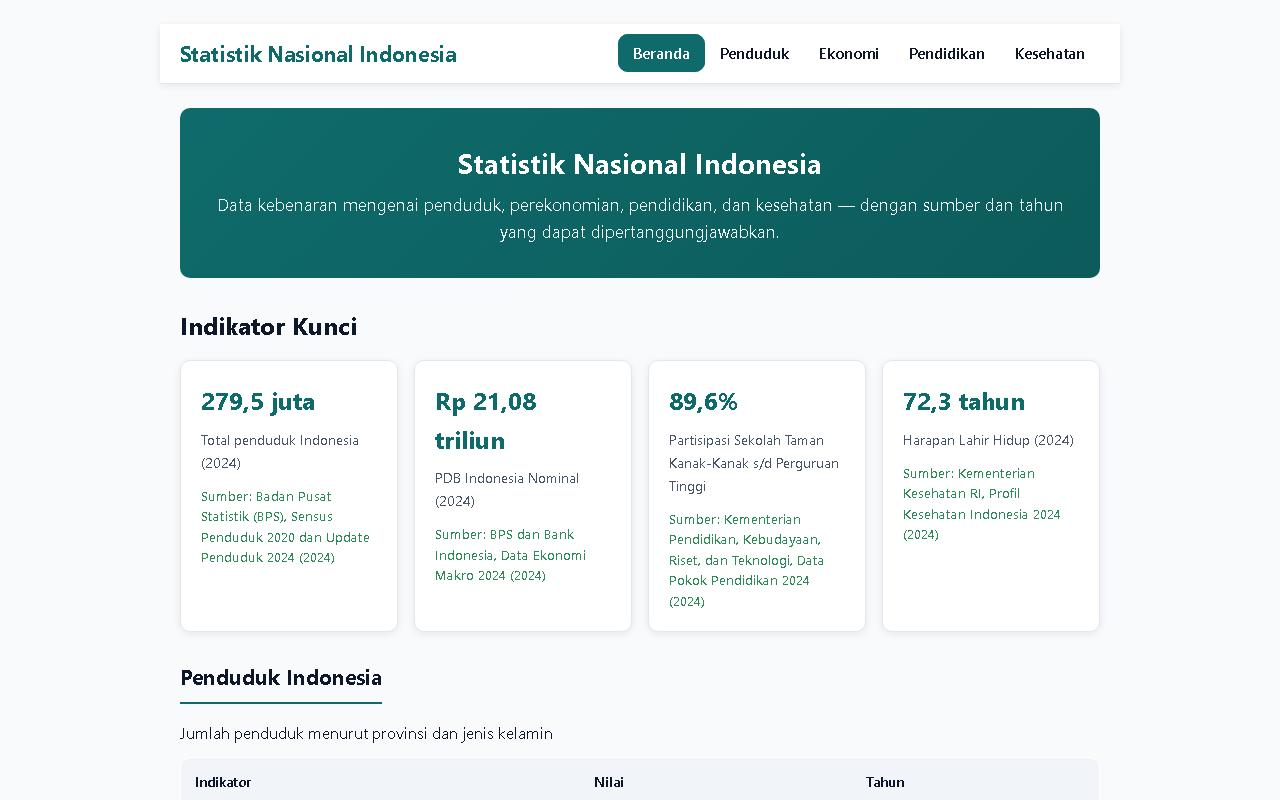
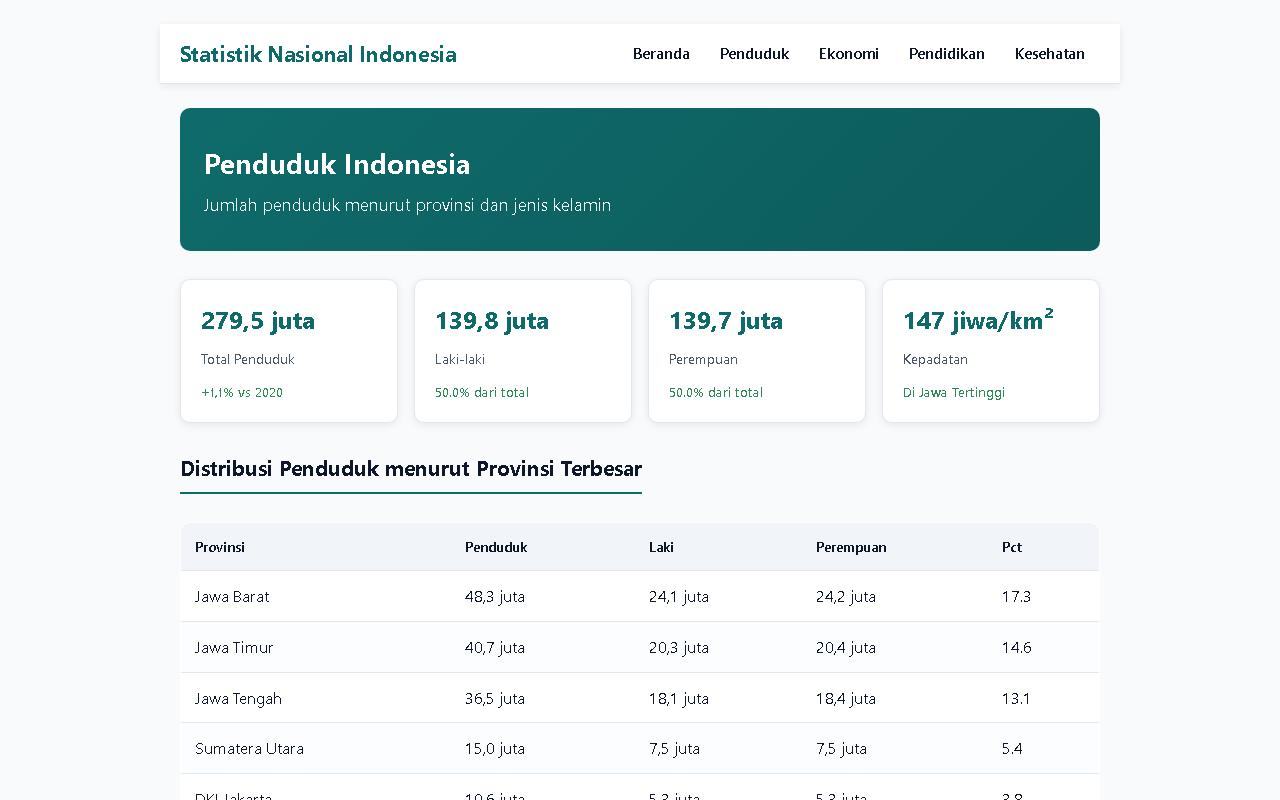
update 4 distinct screenshots and fix mobile

diff --git a/app/style.css b/app/style.css
@@ -197,3 +197,7 @@ footer {
   table { font-size: 0.85rem; }
   th, td { padding: 8px 10px; }
 }
+
+@media (max-width: 600px) { *, *::before, *::after { box-sizing: border-box; max-width: 100%; } body { overflow-x: hidden; padding: 12px; } nav, header, .nav, .tabs { display: flex; flex-wrap: wrap; gap: 6px; } .hero, .banner, .card { padding: 16px; word-wrap: break-word; } }
+
+@media (max-width: 600px) { *, *::before, *::after { box-sizing: border-box; max-width: 100%; } body { overflow-x: hidden; padding: 12px; } nav, header, .nav, .tabs { display: flex; flex-wrap: wrap; gap: 6px; } table { display: block; overflow-x: auto; width: 100%; } }
